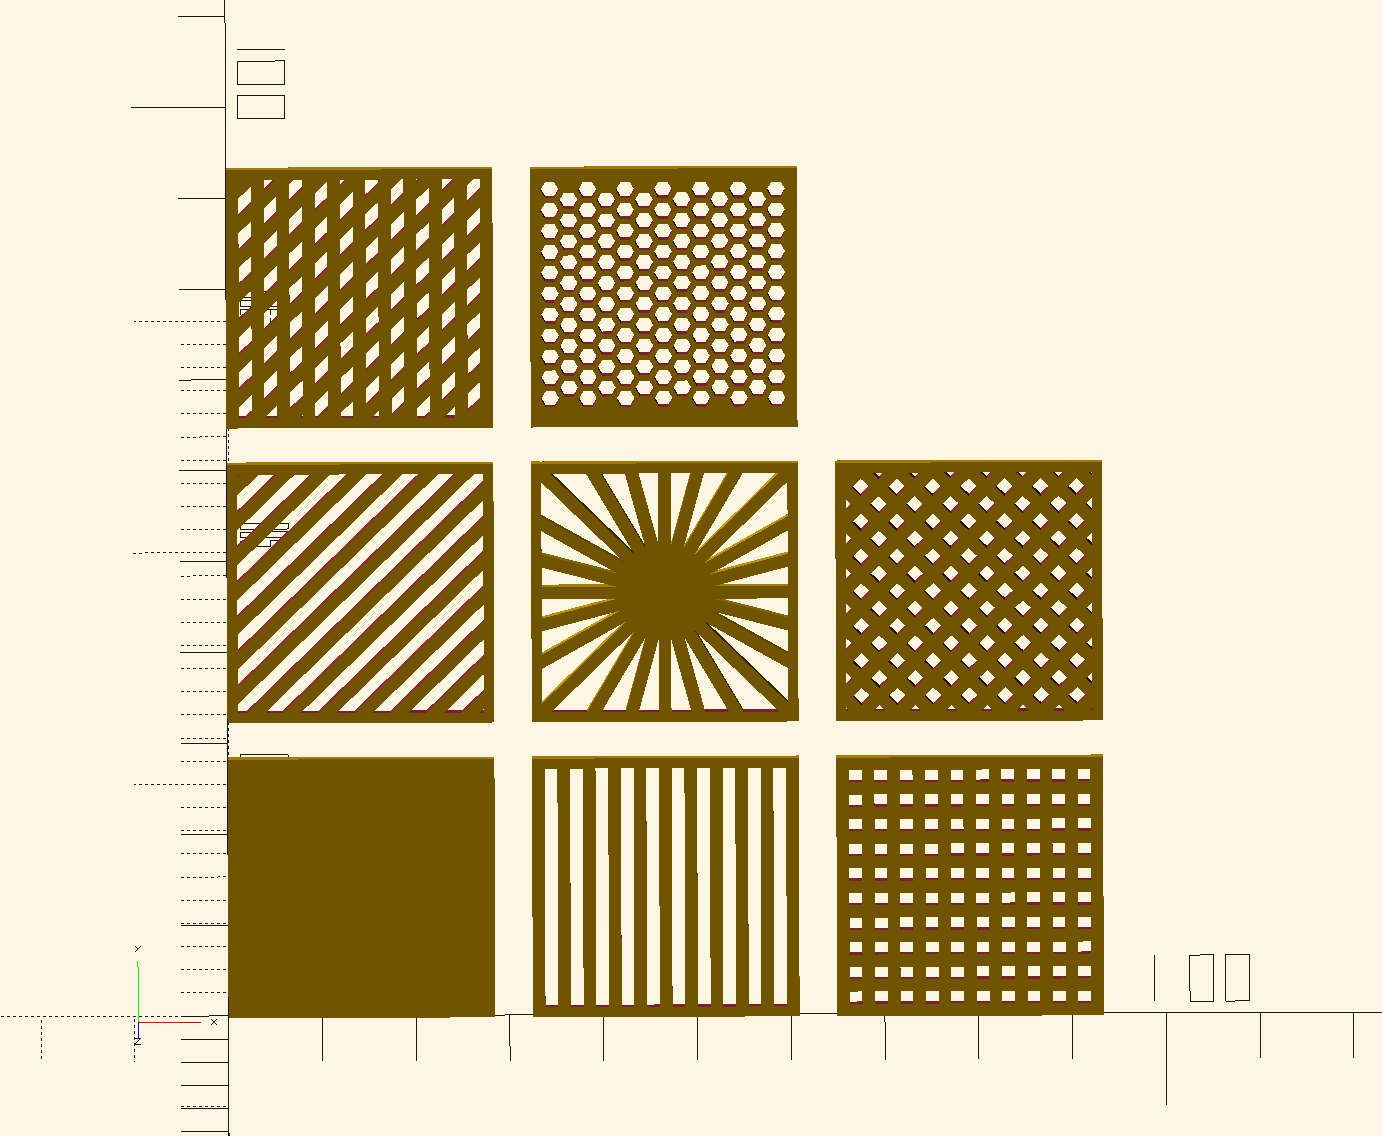
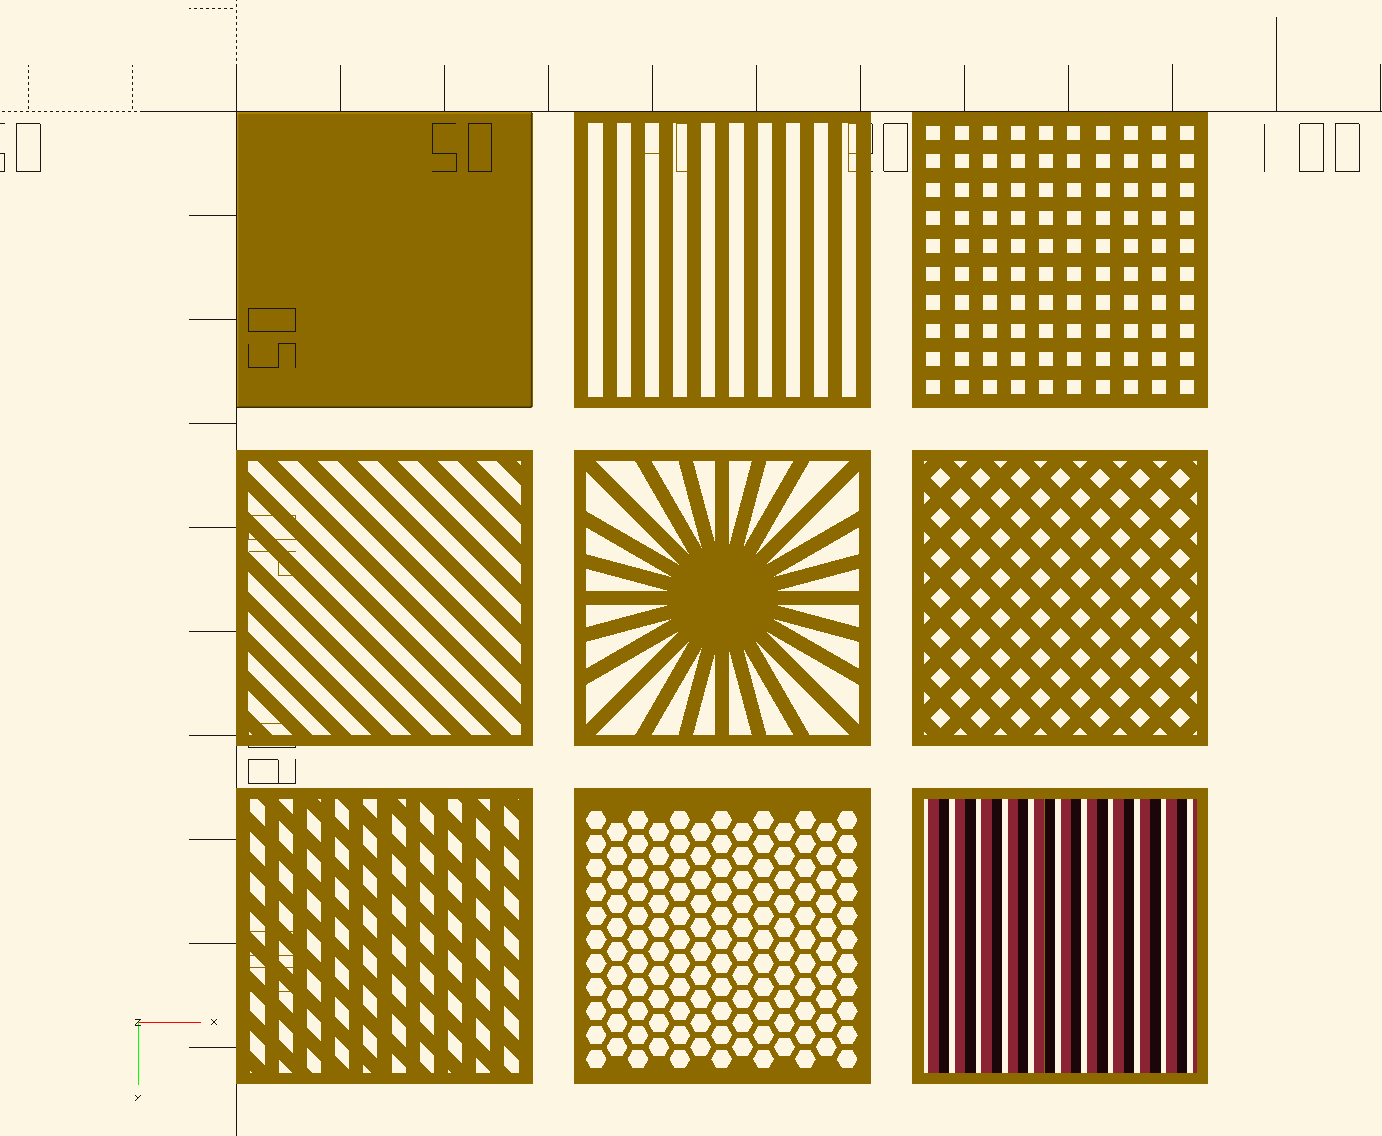
Add horizontal grate

diff --git a/README.md b/README.md
@@ -107,6 +107,7 @@ Easiest:
 | bLattice        | Crossed diagonal slats                |
 | bDiamond        | Crossed horizontal and diagonal slats |
 | bSunburst       | Rayed star                            |
+| bHgrate         | Horizontal slats 45 degrees from vert |
 | bHoneycomb      | Honeycomb tile                        |
 | bHoneycombMulti | Multi-tile honeycomb                  |
 | bMBlank         | Multi-tile blank                      |